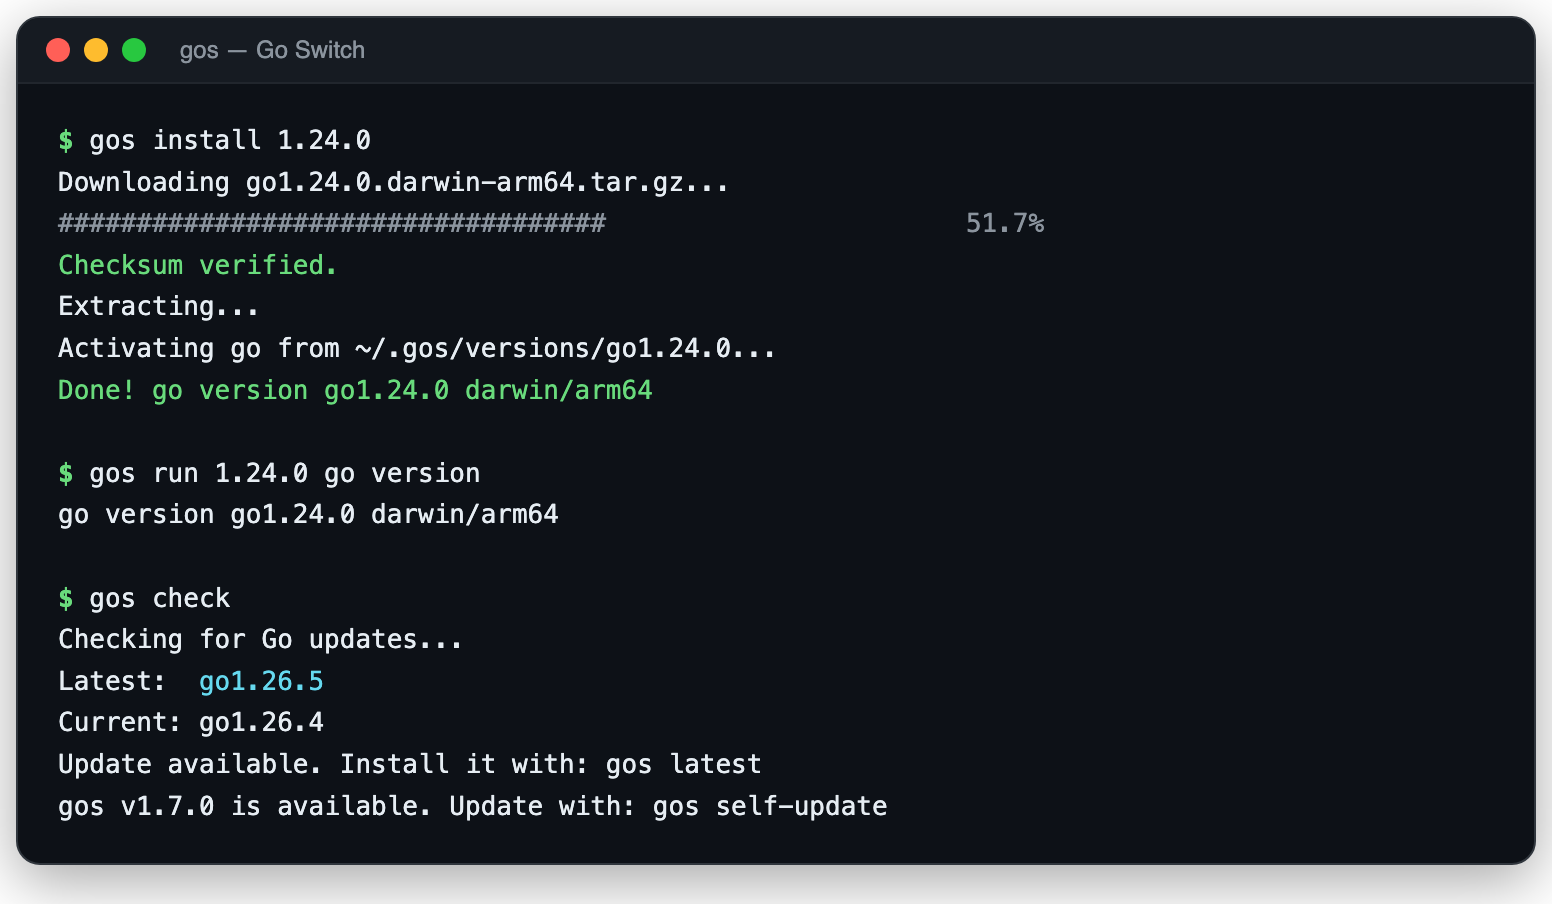
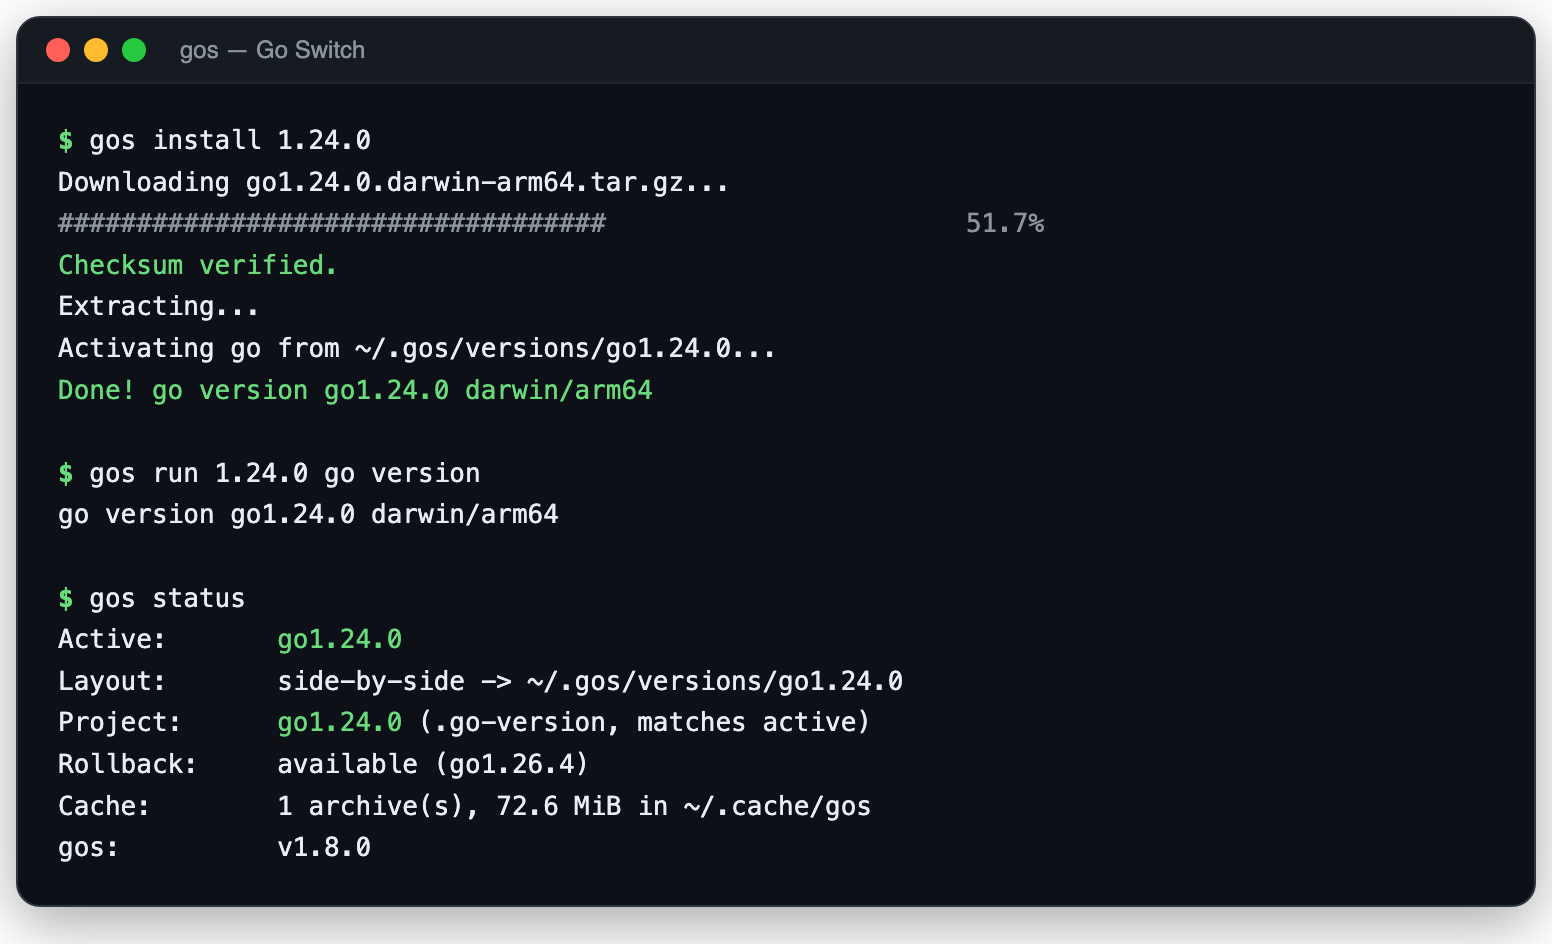
docs: catch the README and demo up to the 1.8.0 surface
The feature list still described the pre-1.8.0 CLI: no mention of
list --minor, pin defaulting to the active version, use --print,
run -- with the project version, the dry-run previews, uninstall
--inactive, per-command help, or the status dashboard's rollback
version, residue, and lock reporting, and the --json list omitted env.
The demo also advertised upgrading to a version that is now current,
so its last panel shows the status dashboard instead.

diff --git a/README.md b/README.md
@@ -15,7 +15,7 @@
 ---
 
 <p align="center">
-  <img src="docs/demo.png" alt="gos installing Go 1.24.0 with a verified checksum, running a command with a side-by-side version, and checking for Go and gos updates" width="776">
+  <img src="docs/demo.png" alt="gos installing Go 1.24.0 with a verified checksum, running a command with a side-by-side version, and showing the offline status dashboard" width="776">
 </p>
 
 ---
@@ -82,21 +82,23 @@ Done. That's the whole setup.
 
 - **One command to latest Go** — `gos latest` fetches and installs the newest stable release
 - **Pin any version** — `gos install 1.21.6` gets exactly what you need; `gos install 1.21` resolves to the newest patch release
-- **Run without switching** — `gos run 1.21 go test ./...` runs a command with a side-by-side Go version without changing the active one
-- **Project-aware switching** — `gos use` reads `.go-version`, `.tool-versions`, `toolchain`, or `go` directives
+- **Run without switching** — `gos run 1.21 go test ./...` runs a command with a side-by-side Go version without changing the active one; `gos run -- go test ./...` uses the project's pinned version
+- **Project-aware switching** — `gos use` reads `.go-version`, `.tool-versions`, `toolchain`, or `go` directives; `gos use --print` resolves without installing and `gos pin` records the active version
 - **Update checks** — `gos check` reports whether newer stable Go or `gos` releases are available without installing anything
 - **Doctor diagnostics** — `gos doctor` checks Go, PATH, permissions, checksum tools, and extraction tools; `gos doctor --fix` applies only safe, non-destructive fixes
-- **Offline status dashboard** — `gos status` summarizes the active Go, project manifest, rollback, cache, and layout without network access
-- **Cache and rollback** — verified archives are cached, `gos rollback` restores the previous install, and `gos prune` reclaims the disk space
+- **Offline status dashboard** — `gos status` summarizes the active Go, project manifest, rollback (and its version), cache size, crash residue, and lock state without network access
+- **Cache and rollback** — verified archives are cached, `gos rollback` restores the previous install, and `gos prune` reclaims the disk space; `--dry-run` previews every removal first
 - **Concurrent-operation guard** — mutating commands take a portable `.gos-lock` so overlapping installs fail fast instead of racing
-- **Side-by-side versions (opt-in)** — set `GOS_VERSIONS_DIR` and every version stays installed; switching becomes an instant symlink flip, with `gos list --installed` and `gos uninstall`
+- **Side-by-side versions (opt-in)** — set `GOS_VERSIONS_DIR` and every version stays installed; switching becomes an instant symlink flip, with `gos list --installed`, `gos uninstall`, and `gos uninstall --inactive` bulk cleanup
+- **One-screen version overview** — `gos list --minor` keeps only the newest release per minor instead of the full 300-line history
 - **Shell setup in one line** — `eval "$(gos env)"` puts the managed Go on PATH
 - **Opt-in auto-switching** — `eval "$(gos env --auto)"` switches this shell to installed project versions as you `cd`, without changing global symlinks
 - **Self-updating** — `gos self-update` upgrades gos itself from the latest verified release
 - **Mirror support** — `GOS_DOWNLOAD_MIRROR` downloads archives from an HTTPS mirror while still verifying official go.dev checksums
 - **TTY download progress** — interactive installs show archive progress while pipes, CI, and JSON stay quiet
 - **TTY diagnostics styling** — interactive `gos doctor` plus stderr `Error:`/`Warning:` lines use color and symbols; pipes, `NO_COLOR`, `GOS_NO_COLOR=1`, and JSON stay plain
-- **Machine-readable output** — `--json` is available for `check`, `current`, `list`, `platforms`, `status`, `which`, `doctor`, `prune`, and `version`
+- **Machine-readable output** — `--json` is available for `check`, `current`, `list`, `platforms`, `status`, `which`, `env`, `doctor`, `prune`, `version`, and `use --print`
+- **Helpful when you mistype** — unknown commands suggest close matches (`gos isntall` → `install`), and `gos help <command>` shows a single command's usage
 - **Auto-detects everything** — OS (`darwin`, `linux`, `windows`) and architecture (`amd64`, `arm64`, `armv6l`, `386`)
 - **Cross-platform** — macOS, Linux, and Windows (Git Bash / WSL)
 - **Zero dependencies** — just `curl` and `bash`, both pre-installed on most systems

diff --git a/CHANGELOG.md b/CHANGELOG.md
@@ -6,6 +6,10 @@ The format is based on [Keep a Changelog](https://keepachangelog.com/), and this
 
 ## [Unreleased]
 
+### Changed
+
+- Refresh the README feature list and terminal demo for the 1.8.0 command surface (`list --minor`, `pin` defaults, `use --print`, `run --`, dry-run previews, `uninstall --inactive`, `help <command>`, and the full status dashboard).
+
 ## [1.8.0] - 2026-07-16
 
 ### Added